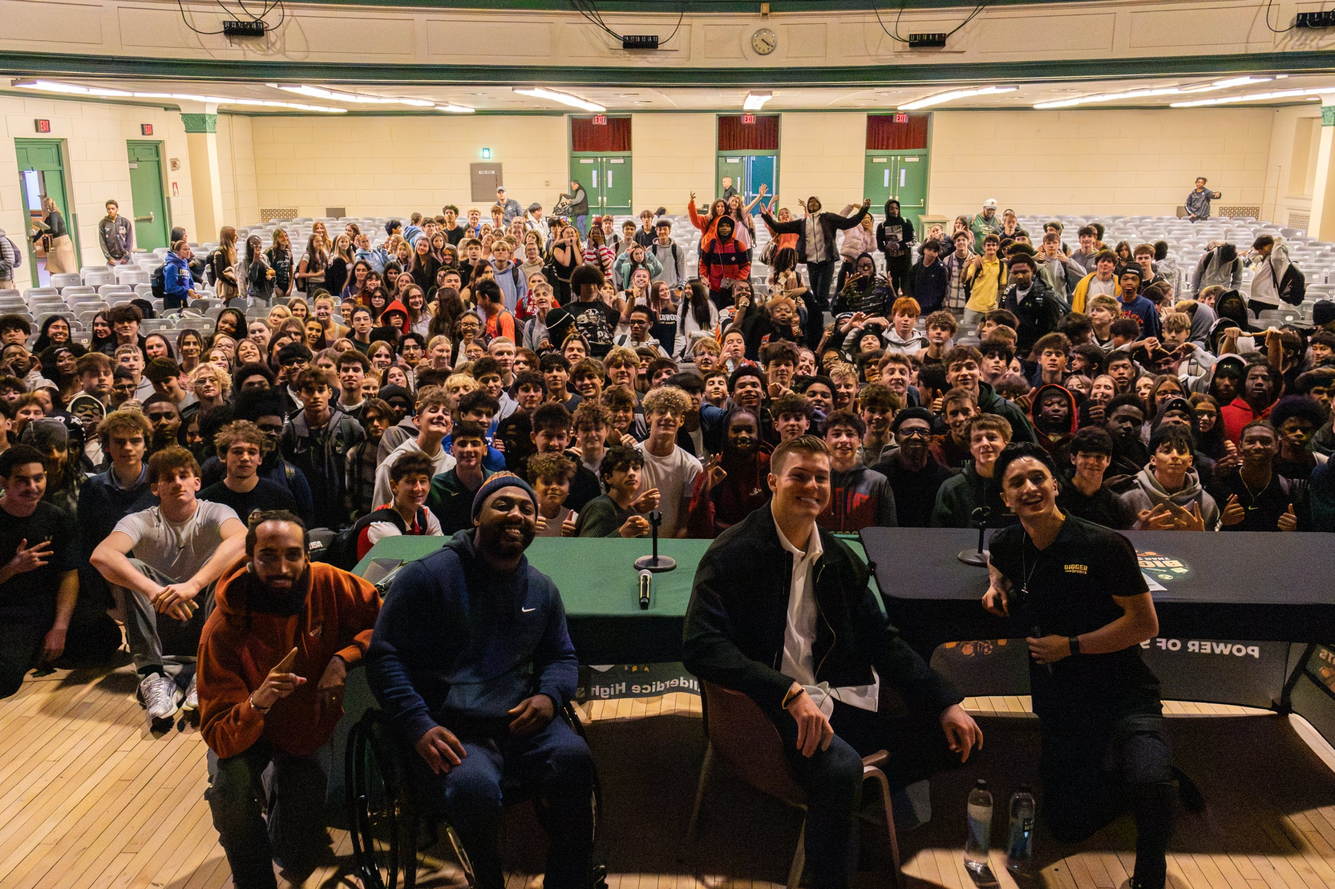
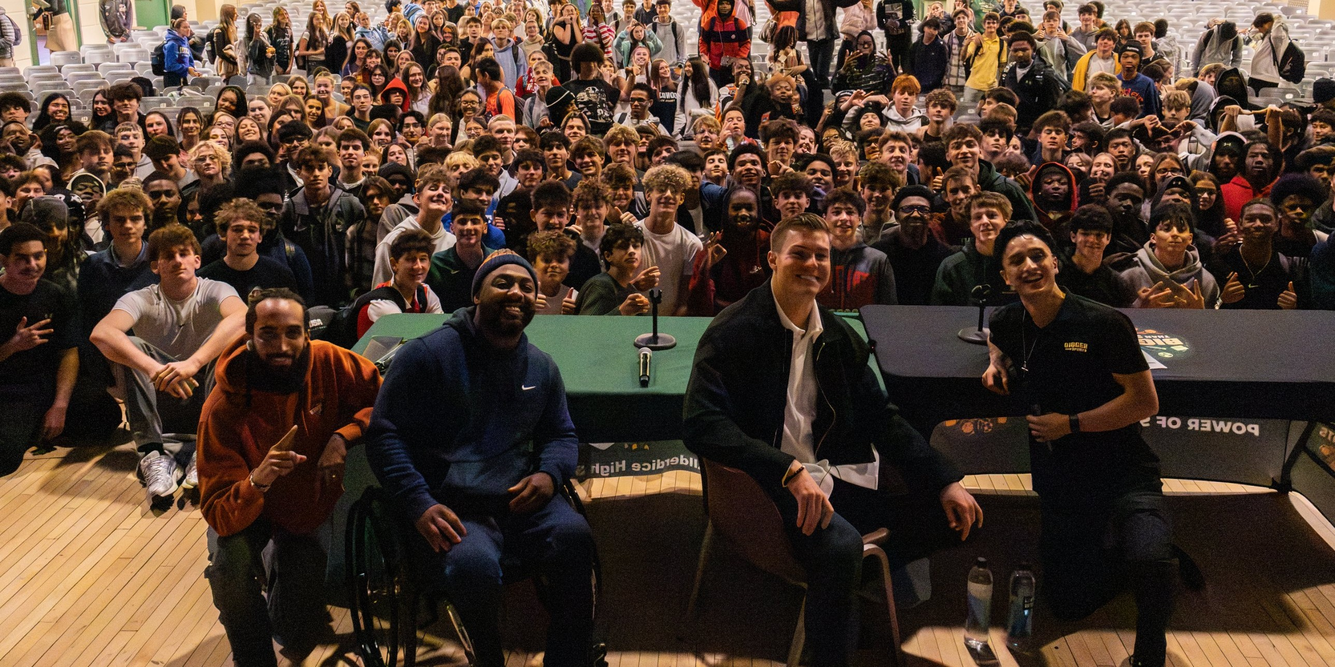
ix event card photos/locations, crop step 04 photo, remove testimonials section

diff --git a/index.html b/index.html
@@ -7,7 +7,7 @@
 <meta name="description" content="Bigger Than Sports is a youth-led nonprofit dedicated to fighting educational inequality through the power of sports, equipping student athletes with mentorship and a plan for life after the game.">
 <link rel="preconnect" href="https://fonts.googleapis.com">
 <link href="https://fonts.googleapis.com/css2?family=Anton&family=Arvo:wght@700&family=Poppins:wght@400;500;600;700&display=swap" rel="stylesheet">
-<link rel="stylesheet" href="style.css?v=20261109b">
+<link rel="stylesheet" href="style.css?v=20261109d">
 <link rel="icon" href="logo.png">
 </head>
 <body>
@@ -177,52 +177,6 @@
   </div>
 </section>
 
-<!-- SECTION 5: TESTIMONIALS SCROLL -->
-<section class="section-black" id="testimonials">
-  <h2 class="section-title">Advice From The Pros</h2>
-  <div class="testimonials-scroll-wrap">
-    <button class="testimonials-arrow prev" aria-label="Scroll to earlier testimonials">&#8592;</button>
-    <div class="testimonials-scroll">
-      <div class="testimonial-card">
-        <img src="billie-jean-king.jpg" alt="Billie Jean King" loading="lazy">
-        <div class="testimonial-overlay">
-          <blockquote>&ldquo;It's always Bigger Than Sports.&rdquo;</blockquote>
-          <div class="name">Billie Jean King, Tennis Hall of Famer</div>
-        </div>
-      </div>
-      <div class="testimonial-card">
-        <img src="will-howard.jpg" alt="Will Howard" loading="lazy">
-        <div class="testimonial-overlay">
-          <blockquote>&ldquo;I wish someone had told me in high school to invest in your future, because this game is going to end at some point.&rdquo;</blockquote>
-          <div class="name">Will Howard, Pittsburgh Steelers QB</div>
-        </div>
-      </div>
-      <div class="testimonial-card shift-photo">
-        <img src="ed-reed.jpg" alt="Ed Reed" loading="lazy">
-        <div class="testimonial-overlay">
-          <blockquote>&ldquo;I'm from where you're from, and look where I'm at. Work together and surround yourself with people who are helping you get to your purpose.&rdquo;</blockquote>
-          <div class="name">Ed Reed, NFL Hall of Famer</div>
-        </div>
-      </div>
-      <div class="testimonial-card">
-        <img src="ilona-maher.jpg" alt="Ilona Maher" loading="lazy">
-        <div class="testimonial-overlay">
-          <blockquote>&ldquo;There's so much out there. You have so much worth besides what you do on the field, on the pitch, whatever it is. Find that, find what you love.&rdquo;</blockquote>
-          <div class="name">Ilona Maher, Olympic Rugby Bronze Medalist</div>
-        </div>
-      </div>
-      <div class="testimonial-card shift-photo-cj">
-        <img src="cj-mccollum.jpg" alt="CJ McCollum" loading="lazy">
-        <div class="testimonial-overlay">
-          <blockquote>&ldquo;There's so much out there for you besides dribbling a ball. There's lots of opportunities for you guys and girls to make a huge impact on society besides playing sports, and you will.&rdquo;</blockquote>
-          <div class="name">CJ McCollum, Atlanta Hawks Guard</div>
-        </div>
-      </div>
-    </div>
-    <button class="testimonials-arrow next" aria-label="Scroll to more testimonials">&#8594;</button>
-  </div>
-</section>
-
 <!-- SECTION 6: EVENTS & HOW WE FUND OUR WORK -->
 <section class="section-green" id="events">
   <h2 class="section-title">Events &amp; How We Fund Our Work</h2>
@@ -296,7 +250,7 @@
       <div class="event-card">
         <!-- Pittsburgh 3v3 basketball 2025 album -->
         <div class="event-img-wrap">
-          <img src="event-pittsburgh-basketball-2025-team.jpg" alt="Basketball Tournament, Pittsburgh, Pennsylvania">
+          <img src="event-pittsburgh-basketball-2025.jpg" alt="Basketball Tournament, Pittsburgh, Pennsylvania">
           <div class="event-gallery-overlay"><a class="btn event-gallery-btn" href="https://drive.google.com/drive/folders/1wj2PncRnBQ4AHAuIlSTyNPMKTPjic7CD?usp=sharing" target="_blank" rel="noopener" aria-label="View the photo gallery for Basketball Tournament">Gallery</a></div>
         </div>
         <h3>Basketball Tournament</h3>
@@ -305,7 +259,7 @@
       <div class="event-card">
         <!-- TODO Ian: confirm this Drive gallery link still matches now that the photo has changed -->
         <div class="event-img-wrap">
-          <img src="event-soccer-tournament.jpg" alt="Soccer Tournament, Raleigh, North Carolina">
+          <img src="event-soccer-tournament.jpg" alt="Soccer Tournament, Raleigh, North Carolina" style="object-position: center 10%;">
           <div class="event-gallery-overlay"><a class="btn event-gallery-btn" href="https://drive.google.com/drive/folders/1sXJvMxGZohoDoyEqcaqzT0Ebvtu4NUul?usp=sharing" target="_blank" rel="noopener" aria-label="View the photo gallery for Soccer Tournament">Gallery</a></div>
         </div>
         <h3>Soccer Tournament</h3>
@@ -320,17 +274,17 @@
         <span class="date">Amherst, Massachusetts</span>
       </div>
       <div class="event-card">
-        <!-- TODO Ian: this was the old Soccer Tournament photo, confirmed as a basketball photo. Placeholder title/location/gallery until you confirm the real event details -->
+        <!-- Seymour, Connecticut basketball tournament. To add a Gallery button to this card later, paste a Drive link into the overlay div (copy it from any card above) inside event-img-wrap -->
         <div class="event-img-wrap">
-          <img src="event-ct-tourney.jpg" alt="Basketball Tournament">
+          <img src="event-ct-tourney.jpg" alt="Basketball Tournament, Seymour, Connecticut">
         </div>
         <h3>Basketball Tournament</h3>
-        <span class="date">Location TBD</span>
+        <span class="date">Seymour, Connecticut</span>
       </div>
       <div class="event-card">
         <!-- Pittsburgh 3v3 basketball 2026 album -->
         <div class="event-img-wrap">
-          <img src="event-pittsburgh-basketball-2026.jpg" alt="Basketball Tournament, Pittsburgh, Pennsylvania">
+          <img src="event-pittsburgh-basketball-2025-team.jpg" alt="Basketball Tournament, Pittsburgh, Pennsylvania">
           <div class="event-gallery-overlay"><a class="btn event-gallery-btn" href="https://drive.google.com/drive/folders/1LJO8V3A9nupus63skOAMnPzGz7qZFh9-?usp=sharing" target="_blank" rel="noopener" aria-label="View the photo gallery for Basketball Tournament">Gallery</a></div>
         </div>
         <h3>Basketball Tournament</h3>
